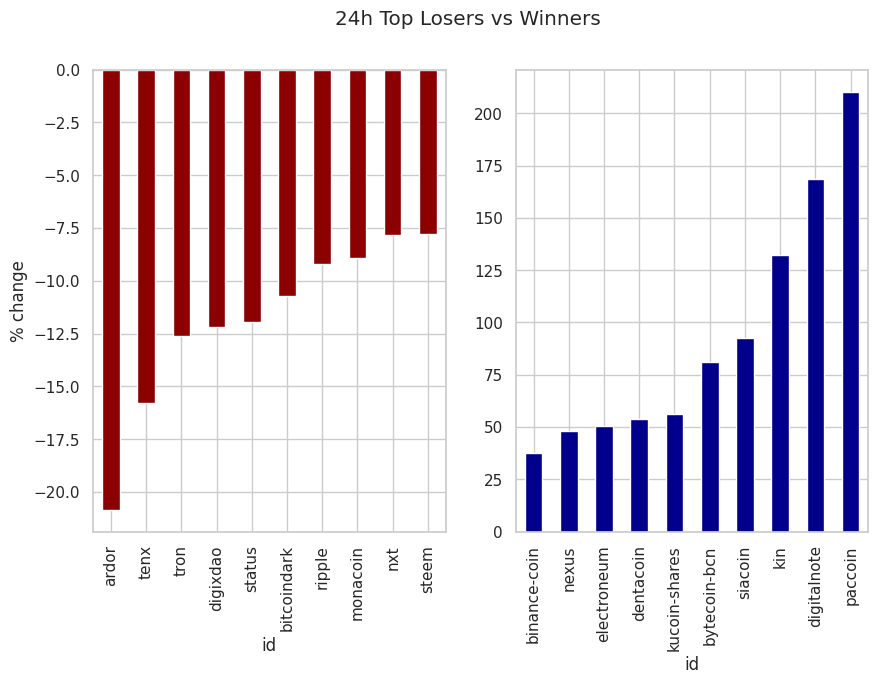
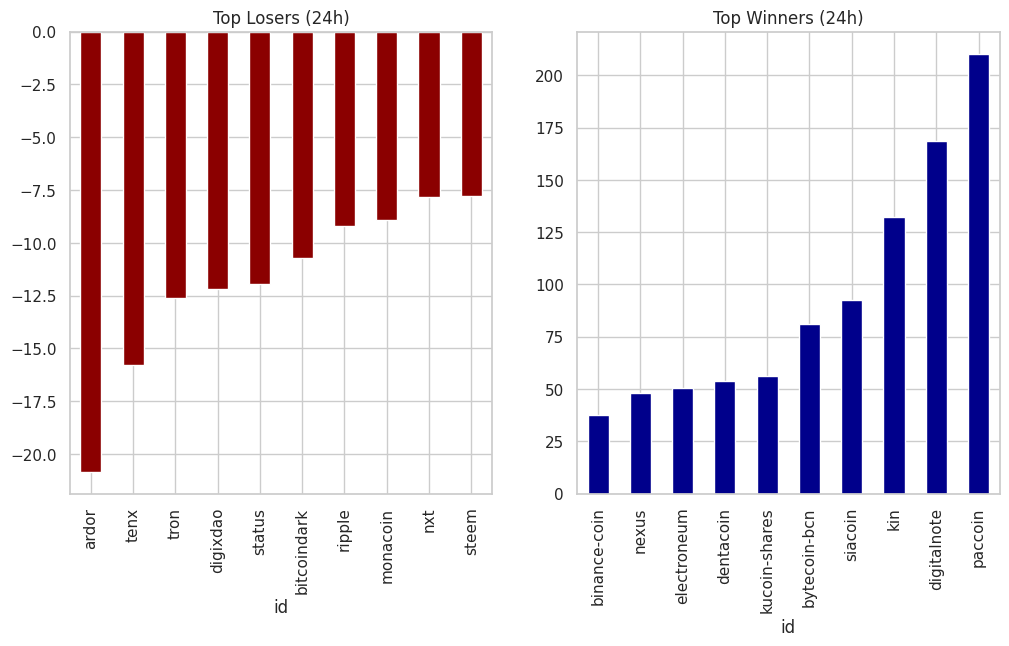
Add visualization images and update README

Changed region(s): [[0.0, 0.0, 1.0, 0.9907], [0.6765, 0.2786, 0.7688, 0.4025], [0.6765, 0.1548, 0.7688, 0.2477]]

diff --git a/README.md b/README.md
@@ -2,31 +2,32 @@
 
 [![Streamlit App](https://static.streamlit.io/badges/streamlit_badge_black_white.svg)](https://classifying-cryptocurrencies-by-market-capitalization-bjyn9rn4.streamlit.app/)
 ![Python](https://img.shields.io/badge/python-3670A0?style=for-the-badge&logo=python&logoColor=ffdd54)
-![Pandas](https://img.shields.io/badge/pandas-%23150458.svg?style=for-the-badge&logo=pandas&logoColor=white)
-![Matplotlib](https://img.shields.io/badge/Matplotlib-%23ffffff.svg?style=for-the-badge&logo=Matplotlib&logoColor=black)
 
 ## 🔗 Live Dashboard
-**Access the live interactive analysis here:** [https://classifying-cryptocurrencies-by-market-capitalization-bjyn9rn4.streamlit.app/](https://classifying-cryptocurrencies-by-market-capitalization-bjyn9rn4.streamlit.app/)
+[Access the live interactive analysis here](https://classifying-cryptocurrencies-by-market-capitalization-bjyn9rn4.streamlit.app/)
 
 ---
 
-## 📌 Project Overview
-This project provides an in-depth analysis of cryptocurrency market data from the early 2018 peak. It focuses on market capitalization dominance, volatility, and tiered classification of digital assets.
+## 📈 Key Visualizations
 
-## 🛠 Technology Stack
-*   **Language**: Python
-*   **Libraries**: Pandas, Matplotlib, Streamlit
-*   **Deployment**: Streamlit Community Cloud
+### 1⃣ Top 10 Market Capitalization
+![Top 10 Market Cap](images/fig1_marketcap.png)
+*Dominance of top 10 assets as a percentage of total market cap.*
 
-## 📈 Analysis Highlights
-1. **Market Capitalization**: Analysis of the top 10 coins and their total market dominance.
-2. **24-Hour Volatility**: Identifies the biggest winners and losers in a single day.
-3. **Weekly Volatility**: Reveals long-term trends over a 7-day period.
-4. **Market Segmentation**: Categorizes coins into 'biggish', 'micro', and 'nano' tiers.
+### 2⃣ 24-Hour Price Volatility
+![24h Volatility](images/fig2_24h.png)
+*The biggest gainers and losers in a single day cycle.*
+
+### 3⃣ Weekly Performance Analysis
+![Weekly Volatility](images/fig3_weekly.png)
+*Market trends observed over a 7-day window.*
+
+### 4⃣ Market Cap Classification
+![Market Classification](images/fig4_classification.png)
+*Segmenting assets into Biggish, Micro, and Nano tiers.*
 
 ---
 
 ## 👩💻 Author
 **M. Divya Lalitha**
-*   **GitHub**: [M-Divya29](https://github.com/M-Divya29)
-*   **Project**: Cryptocurrency Market Analysis
+* **GitHub**: [M-Divya29](https://github.com/M-Divya29)
